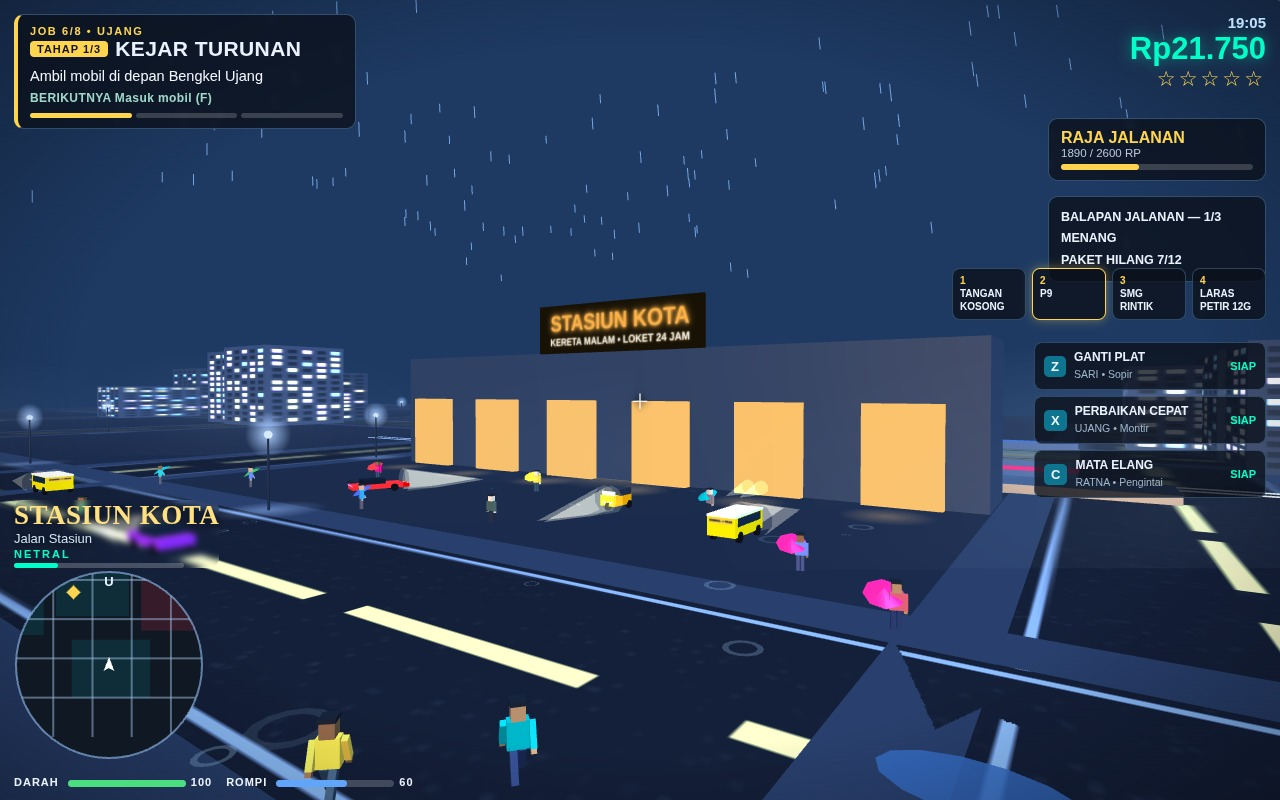
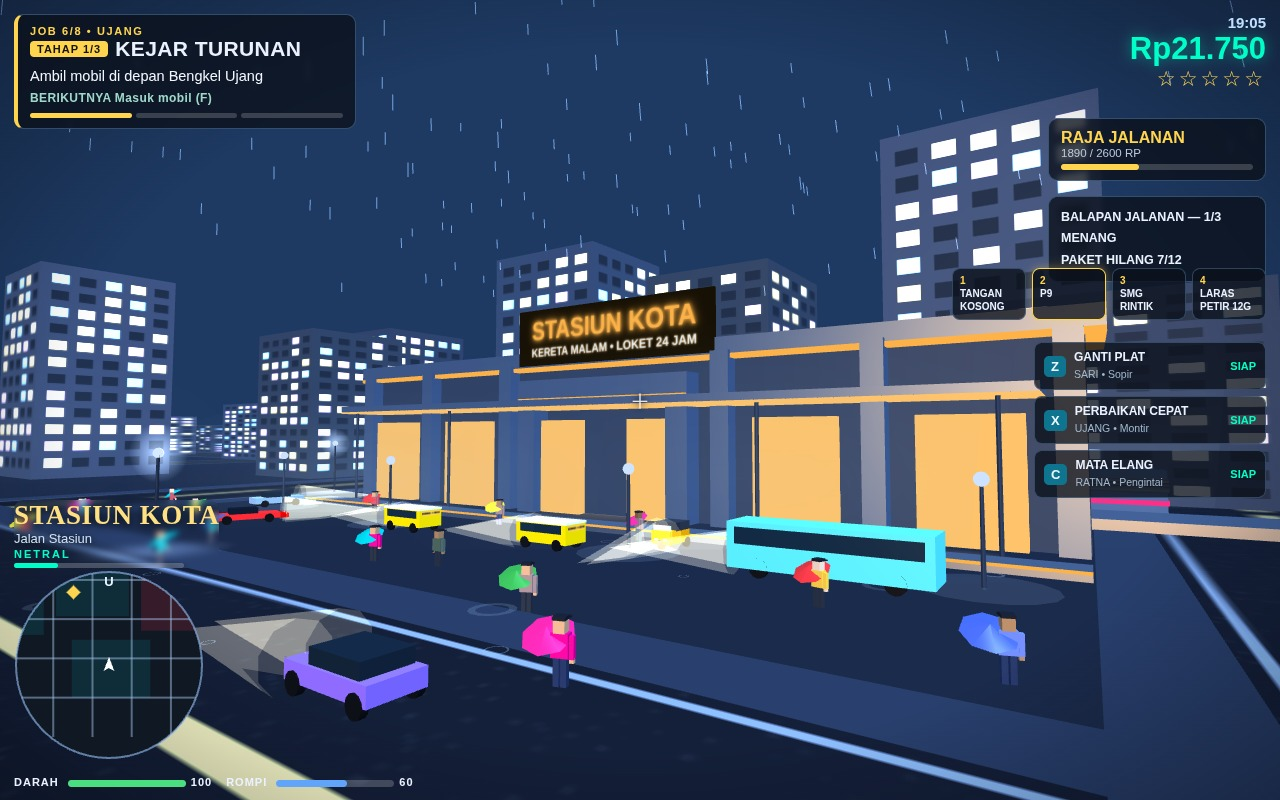
GERIMIS rev1g — station postcard densified: packed skyline, facade architecture, fuller forecourt

diff --git a/game/src/shots.js b/game/src/shots.js
@@ -130,6 +130,17 @@ export function installStaging(api) {
     // horizon and raises the ambient/hemisphere base so facades,
     // vehicles and asphalt read WITH COLOUR while the neon pops
     // against the blue instead of drowning in black.
+    //
+    // REV1G — the owner approved f's postcard ("nah bagus") with
+    // two notes: it is still not PADAT — add the big buildings so
+    // it reads as a real city — and the station reads as just a
+    // wall. Frame g (the default now) keeps f's subject, light and
+    // composition family and answers both notes with staging-only
+    // dressing: a packed backdrop skyline in the game's own tower
+    // recipe behind and around the station, real architecture on
+    // the facade (cornice, canopy, pilasters, entrance portal,
+    // lamp posts, apron edge), and a fuller forecourt with a bus
+    // and angkot drop-off queue.
     vista() {
       api.seedStats(SHOWCASE);
       api.startJobAt(5); // JOB 6 sits on offer — the panel reads calm
@@ -229,8 +240,8 @@ export function installStaging(api) {
           shopper.mesh.userData.holdsUmbrella = true;
         });
         api.setCam([208, 10, 90], [186, 2.5, 26]);
-      } else {
-        // F (default) — the station postcard at blue hour, rev1f.
+      } else if (frame === 'f') {
+        // F — the station postcard at blue hour, rev1f.
         // BLUE HOUR first: repaint the sky a deep rainy blue, lift
         // the fog to a lighter steel blue (distance melts into a
         // horizon glow instead of black), and raise the ambient /
@@ -294,6 +305,164 @@ export function installStaging(api) {
         // both frame edges, traffic and umbrella peds filling the
         // foreground apron and the road below.
         api.setCam([6, 9, 174], [46, 8, 233]);
+      } else {
+        // G (default) — the station postcard, densified, rev1g.
+        // Same blue hour as f (sky, fog, light bases repainted
+        // identically), same street-facing sign twin, same
+        // composition family — plus the skyline, the facade
+        // architecture and the forecourt density the owner asked
+        // for. Everything below is staging-only dressing.
+        scene.background = new T.Color(0x1e3a63);
+        scene.fog.color.set(0x39598c);
+        scene.fog.density = 0.0021;
+        scene.traverse(o => {
+          if (o.isAmbientLight) { o.color.set(0x5f7fb4); o.intensity = 1.15; }
+          else if (o.isHemisphereLight) { o.color.set(0x51749f); o.groundColor.set(0x141c2a); o.intensity = 0.9; }
+          else if (o.isDirectionalLight) { o.color.set(0xa8c8f0); o.intensity = 0.75; }
+        });
+        // Sign twin, same recipe as f: the game's own board faces
+        // the platform and reads mirrored from the street.
+        const signCv = document.createElement('canvas'); signCv.width = 1024; signCv.height = 256;
+        const sctx = signCv.getContext('2d');
+        sctx.fillStyle = '#171003'; sctx.fillRect(0, 0, 1024, 256);
+        sctx.textAlign = 'center'; sctx.textBaseline = 'middle';
+        sctx.shadowColor = '#ffb347'; sctx.shadowBlur = 42;
+        sctx.fillStyle = '#ffb347';
+        sctx.font = '900 118px Arial, sans-serif';
+        sctx.fillText('STASIUN KOTA', 512, 104);
+        sctx.shadowBlur = 18; sctx.fillText('STASIUN KOTA', 512, 104);
+        sctx.font = '700 54px Arial, sans-serif';
+        sctx.fillStyle = '#eaf6ff'; sctx.shadowBlur = 10;
+        sctx.fillText('KERETA MALAM • LOKET 24 JAM', 512, 200);
+        const signTwin = new T.Mesh(
+          new T.PlaneGeometry(20, 5),
+          new T.MeshBasicMaterial({ map: new T.CanvasTexture(signCv), side: T.DoubleSide })
+        );
+        signTwin.position.set(45, 15.4, 227.15);
+        signTwin.rotation.y = Math.PI;
+        scene.add(signTwin);
+        // Backdrop skyline in the game's own tower recipe (canvas
+        // window grid, emissive map, downtown facade tones): a
+        // packed wall of towers behind the station and flanking
+        // it, so the postcard sits inside a big city. The real
+        // downtown towers are all south of the station (behind
+        // this camera), which is why f's skyline read thin.
+        const towerTex = base => {
+          const cv = document.createElement('canvas'); cv.width = 128; cv.height = 256;
+          const ctx = cv.getContext('2d');
+          ctx.fillStyle = base; ctx.fillRect(0, 0, 128, 256);
+          const lit = ['#ffd98a', '#ffe9b0', '#a8e6ff', '#ffc4dd'];
+          for (let row = 0; row < 12; row++) {
+            for (let col = 0; col < 5; col++) {
+              ctx.fillStyle = Math.random() < 0.55 ? lit[(Math.random() * lit.length) | 0] : '#131a24';
+              ctx.fillRect(10 + col * 24, 12 + row * 20, 15, 11);
+            }
+          }
+          return new T.CanvasTexture(cv);
+        };
+        const backdrop = (x, z, w, h, d, base) => {
+          const tex = towerTex(base);
+          const m = new T.Mesh(
+            new T.BoxGeometry(w, h, d),
+            new T.MeshPhongMaterial({ map: tex, emissive: 0xffffff, emissiveMap: tex, emissiveIntensity: 0.55, shininess: 24 })
+          );
+          m.position.set(x, h / 2, z);
+          scene.add(m);
+        };
+        const facadeTones = ['#232d3d', '#1f2735', '#28303f', '#202833'];
+        backdrop(-52, 258, 18, 28, 18, facadeTones[0]);  // west flank-back
+        backdrop(-18, 274, 22, 36, 20, facadeTones[1]);  // behind, west of centre
+        backdrop(22, 284, 24, 46, 22, facadeTones[2]);   // behind centre — tallest
+        backdrop(58, 278, 20, 31, 20, facadeTones[3]);   // behind, east of centre
+        backdrop(96, 286, 24, 41, 22, facadeTones[0]);   // behind, east
+        backdrop(132, 270, 20, 27, 18, facadeTones[1]);  // east flank-back
+        backdrop(-28, 244, 16, 24, 16, facadeTones[2]);  // west near flank
+        backdrop(118, 247, 16, 23, 16, facadeTones[3]);  // east near flank
+        backdrop(-64, 226, 18, 30, 18, facadeTones[1]);  // far-west edge, station latitude
+        backdrop(152, 224, 18, 33, 18, facadeTones[2]);  // far-east edge, station latitude
+        // Facade architecture. The game's station front is one
+        // flat 66×13 box with six glowing rectangles; staging
+        // gives it a cornice and lit frieze along the roofline, a
+        // canopy over the arches on slim columns with a warm glow
+        // underneath, pilasters between the window bays, a framed
+        // entrance portal around the centre arch pair, a raised
+        // apron edge and lamp posts — depth enough to read as a
+        // station building, not a wall.
+        const stone = new T.MeshPhongMaterial({ color: 0x39485c, shininess: 40, specular: 0x66788f });
+        const stoneDark = new T.MeshPhongMaterial({ color: 0x232d3b, shininess: 30 });
+        const cornice = new T.Mesh(new T.BoxGeometry(68, 1.3, 9.6), stone);
+        cornice.position.set(45, 13.4, 232); scene.add(cornice);
+        const frieze = new T.Mesh(new T.BoxGeometry(68, 0.35, 9.7), new T.MeshBasicMaterial({ color: 0xffb347 }));
+        frieze.position.set(45, 12.6, 232); scene.add(frieze);
+        const canopy = new T.Mesh(new T.BoxGeometry(62, 0.55, 5.5), stone);
+        canopy.position.set(45, 9.3, 225.6); scene.add(canopy);
+        const canopyGlow = new T.Mesh(new T.BoxGeometry(62, 0.16, 5.5), new T.MeshBasicMaterial({ color: 0xffc46b }));
+        canopyGlow.position.set(45, 8.95, 225.6); scene.add(canopyGlow);
+        for (const px of [16, 30, 60, 74]) {
+          const col = new T.Mesh(new T.CylinderGeometry(0.14, 0.14, 9, 6), stoneDark);
+          col.position.set(px, 4.5, 223.4); scene.add(col);
+        }
+        for (const px of [12.8, 23.5, 34.5, 56.5, 67.5, 77.2]) {
+          const pil = new T.Mesh(new T.BoxGeometry(1.5, 13, 1.4), stone);
+          pil.position.set(px, 6.5, 227.5); scene.add(pil);
+        }
+        for (const px of [37.8, 53.2]) {
+          const pcol = new T.Mesh(new T.BoxGeometry(1.9, 11, 2.1), stone);
+          pcol.position.set(px, 5.5, 227.2); scene.add(pcol);
+        }
+        const lintel = new T.Mesh(new T.BoxGeometry(17.3, 1.6, 2.1), stone);
+        lintel.position.set(45.5, 10.7, 227.2); scene.add(lintel);
+        const lintelGlow = new T.Mesh(new T.BoxGeometry(17.3, 0.3, 2.2), new T.MeshBasicMaterial({ color: 0xffb347 }));
+        lintelGlow.position.set(45.5, 9.75, 227.2); scene.add(lintelGlow);
+        const apron = new T.Mesh(new T.BoxGeometry(66, 0.35, 3), new T.MeshPhongMaterial({ color: 0x39424e, shininess: 50, specular: 0x77879f }));
+        apron.position.set(45, 0.18, 221.5); scene.add(apron);
+        const apronLine = new T.Mesh(new T.BoxGeometry(66, 0.1, 0.4), new T.MeshBasicMaterial({ color: 0xffb347 }));
+        apronLine.position.set(45, 0.4, 220.1); scene.add(apronLine);
+        const lampAt = (x, z) => {
+          const pole = new T.Mesh(new T.CylinderGeometry(0.09, 0.12, 4.6, 6), stoneDark);
+          pole.position.set(x, 2.3, z); scene.add(pole);
+          const head = new T.Mesh(new T.SphereGeometry(0.34, 10, 8), new T.MeshBasicMaterial({ color: 0xcfe4ff }));
+          head.position.set(x, 4.8, z); scene.add(head);
+          const pool = new T.Mesh(new T.CircleGeometry(3, 16), new T.MeshBasicMaterial({ color: 0x8fb6e8, transparent: true, opacity: 0.16 }));
+          pool.rotation.x = -Math.PI / 2; pool.position.set(x, 0.06, z); scene.add(pool);
+        };
+        [[16, 216], [34, 214.5], [56, 214.5], [74, 216]].forEach(([x, z]) => lampAt(x, z));
+        // Damar on the forecourt facing his station; the GT
+        // waits east of the entrance as a life detail.
+        player.mesh.position.set(40, 0, 206);
+        player.mesh.rotation.y = 0;
+        heroCar.mesh.position.set(66, 0, 209);
+        heroCar.mesh.rotation.y = -0.35;
+        // Drop-off queue along the apron: a BUS MALAM loading at
+        // the doors, two angkot queued behind it, a bajaj waiting
+        // by the arches, a sedan parked at the east end.
+        const busQ = api.carEntity('bus', 22, 213.5, Math.PI / 2, 'traffic', 0x4fc3f7); busQ.speed = 0;
+        const qA1 = api.carEntity('angkot', 39, 213.5, Math.PI / 2, 'traffic', 0xffc400); qA1.speed = 0;
+        const qA2 = api.carEntity('angkot', 52, 213.5, Math.PI / 2, 'traffic', 0xffc400); qA2.speed = 0;
+        const waitBajaj = api.carEntity('bajaj', 33, 217.5, Math.PI, 'traffic', 0xff9100); waitBajaj.speed = 0;
+        const parkSedan = api.carEntity('sedan', 76, 216.5, -0.15, 'traffic', 0x90a4ae); parkSedan.speed = 0;
+        // Jalan Stasiun traffic in the near foreground: two
+        // eastbound, two westbound, headlights on the wet asphalt.
+        const roadA = api.carEntity('angkot', 82, 193.5, Math.PI / 2, 'traffic', 0xffc400); roadA.speed = 0;
+        const roadH = api.carEntity('hatch', 28, 193.5, Math.PI / 2, 'traffic', 0x7e57c2); roadH.speed = 0;
+        const roadS = api.carEntity('sedan', -6, 186.5, -Math.PI / 2, 'traffic', 0x90a4ae); roadS.speed = 0;
+        const roadB = api.carEntity('bajaj', -26, 186.5, -Math.PI / 2, 'traffic', 0xff9100); roadB.speed = 0;
+        // Umbrella peds crossing the apron — a real crowd this
+        // time, three of them near the camera so the life reads
+        // at full size, the rest threading between the queue and
+        // the entrance.
+        [[24, 197, 0.3], [52, 198, -0.4], [68, 196.5, 0.2],
+         [14, 204, 0.35], [21, 209, -0.3], [30, 202, 0.4], [36, 218.5, -0.35],
+         [44, 205, 0.3], [49, 219, 0.4], [58, 203, -0.4], [63, 218, 0.35],
+         [70, 207, -0.3], [77, 202, 0.4], [82, 210, -0.35]].forEach(([px, pz, ph], i) => {
+          const walker = api.pedEntity('civ', { umbrella: umbrellaPalette[i % umbrellaPalette.length] }, px, pz, ph);
+          walker.mesh.userData.holdsUmbrella = true;
+        });
+        // Slightly lower and closer than f, aimed up the stack:
+        // forecourt at the bottom, dressed facade in the middle,
+        // the packed skyline rising behind it, sky only as a top
+        // band.
+        api.setCam([12, 6.8, 183], [47, 10, 235]);
       }
     },
 
